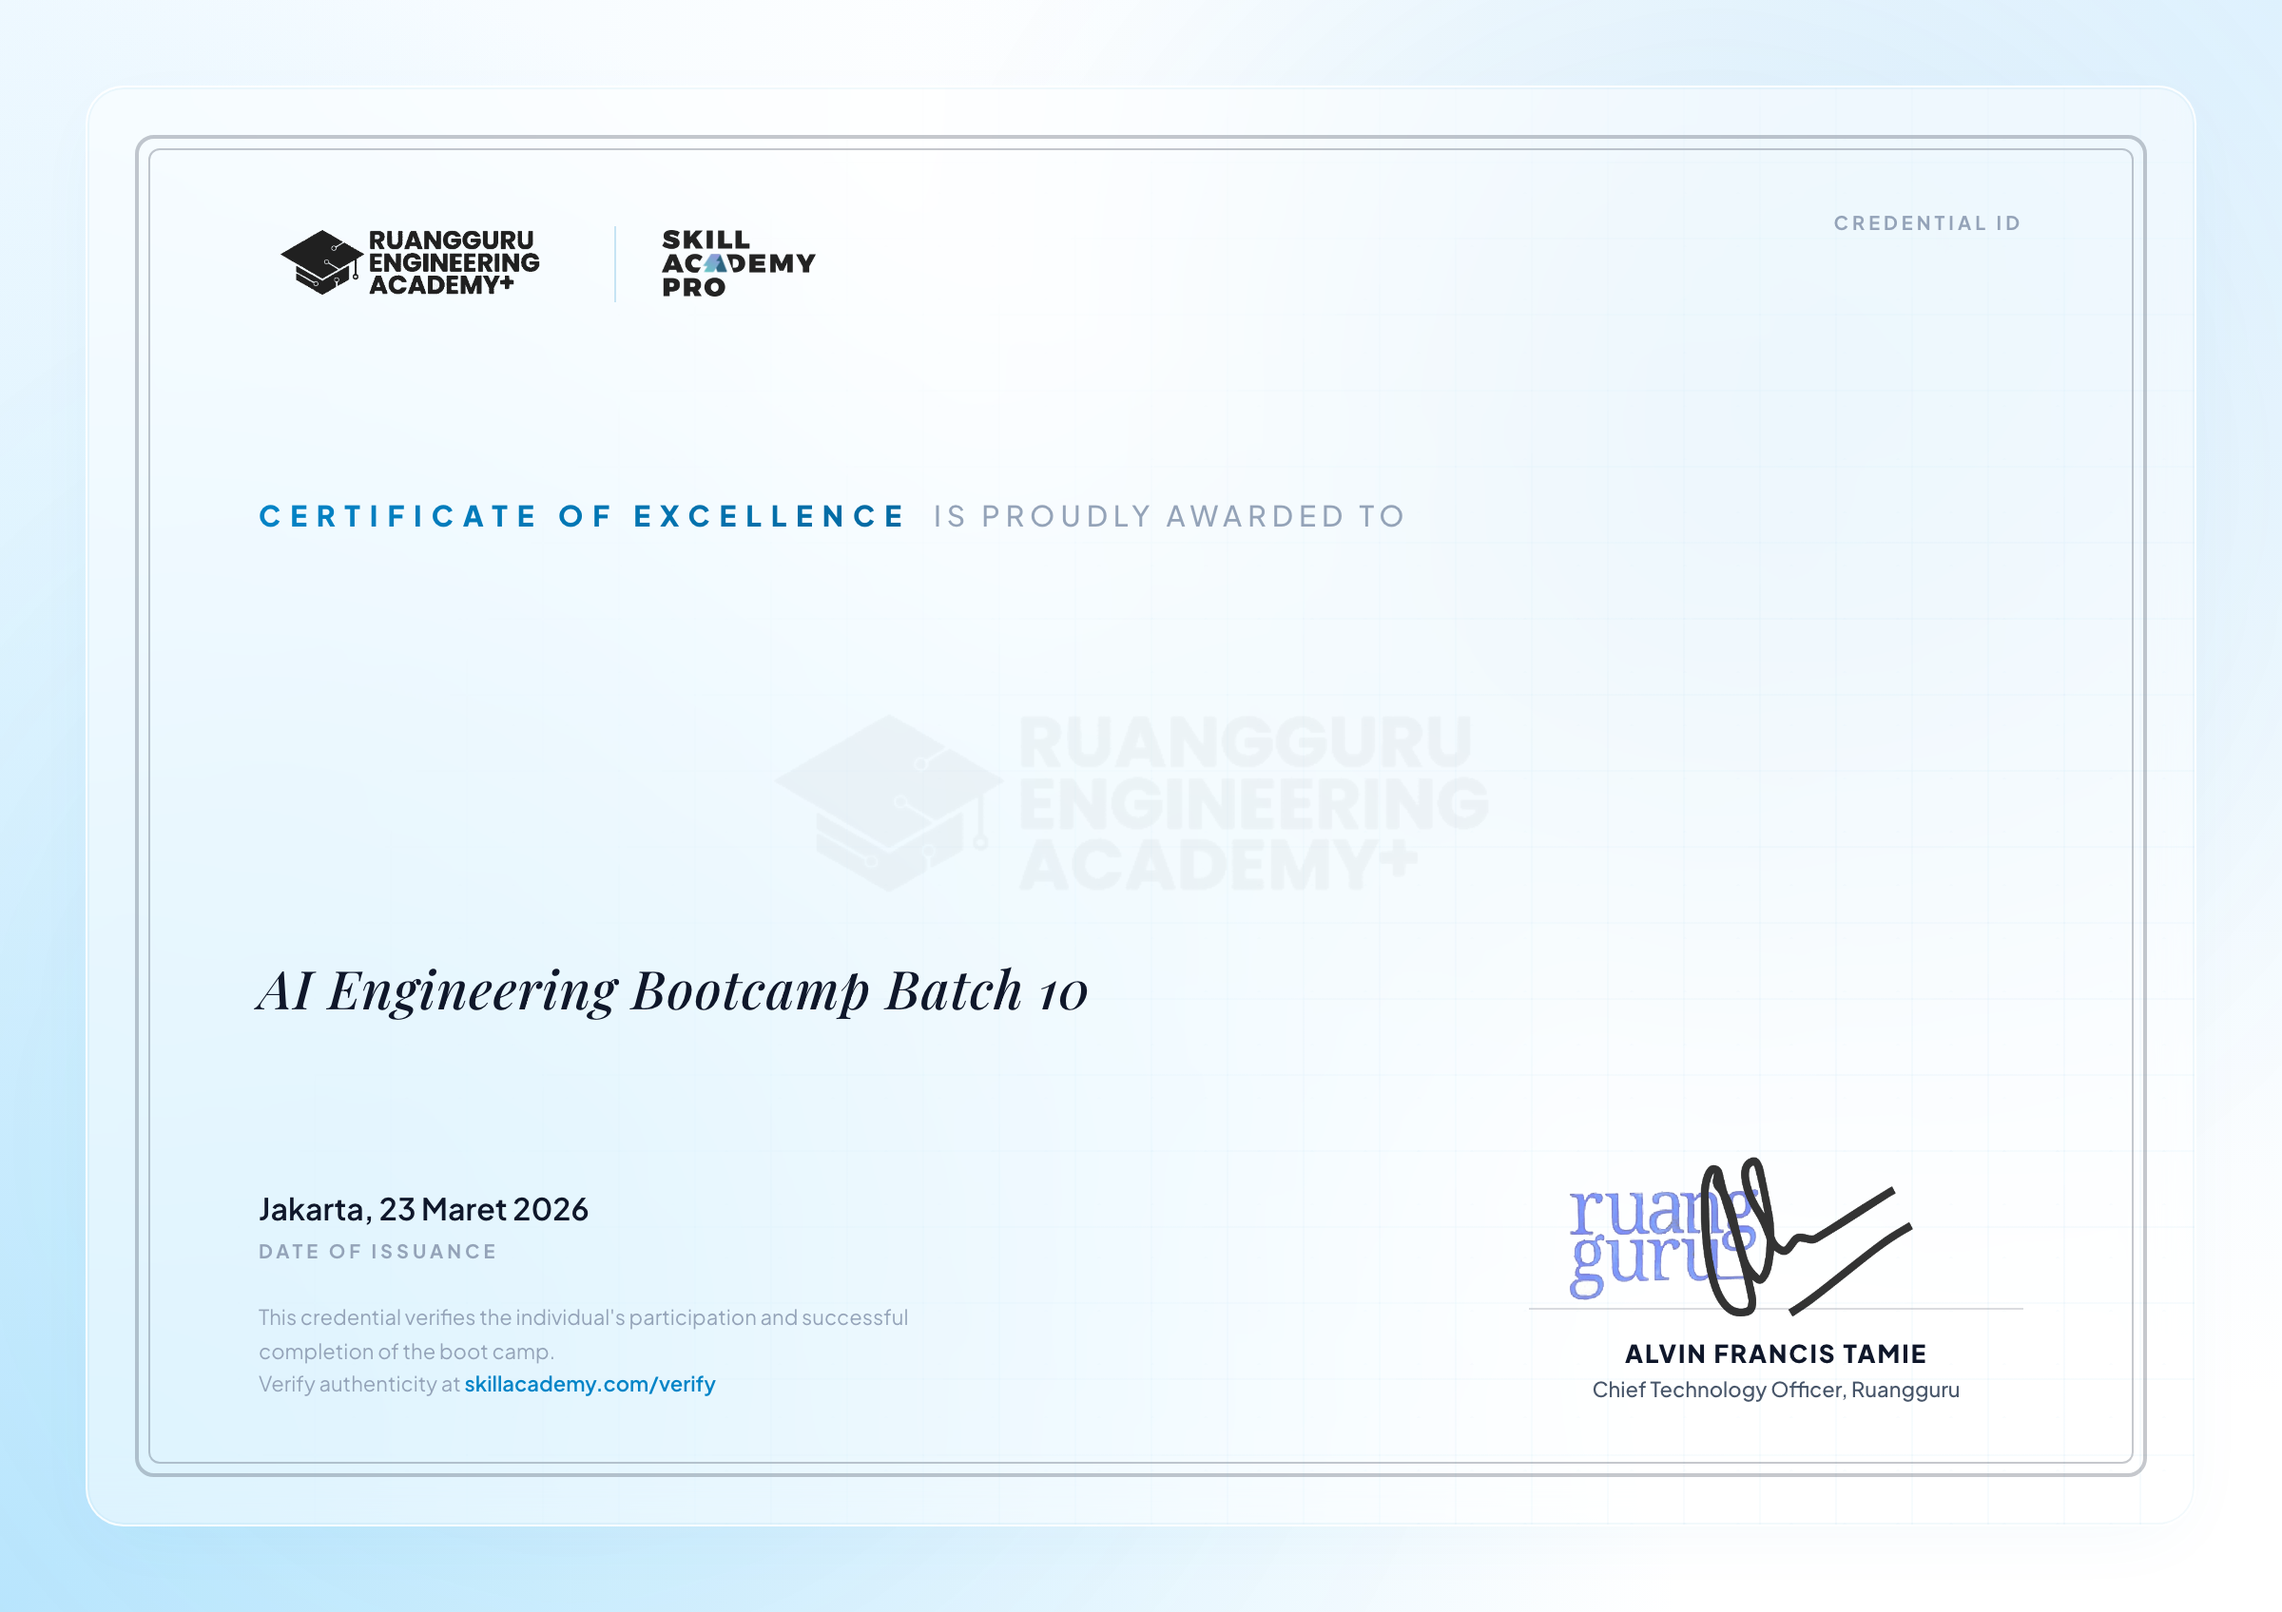
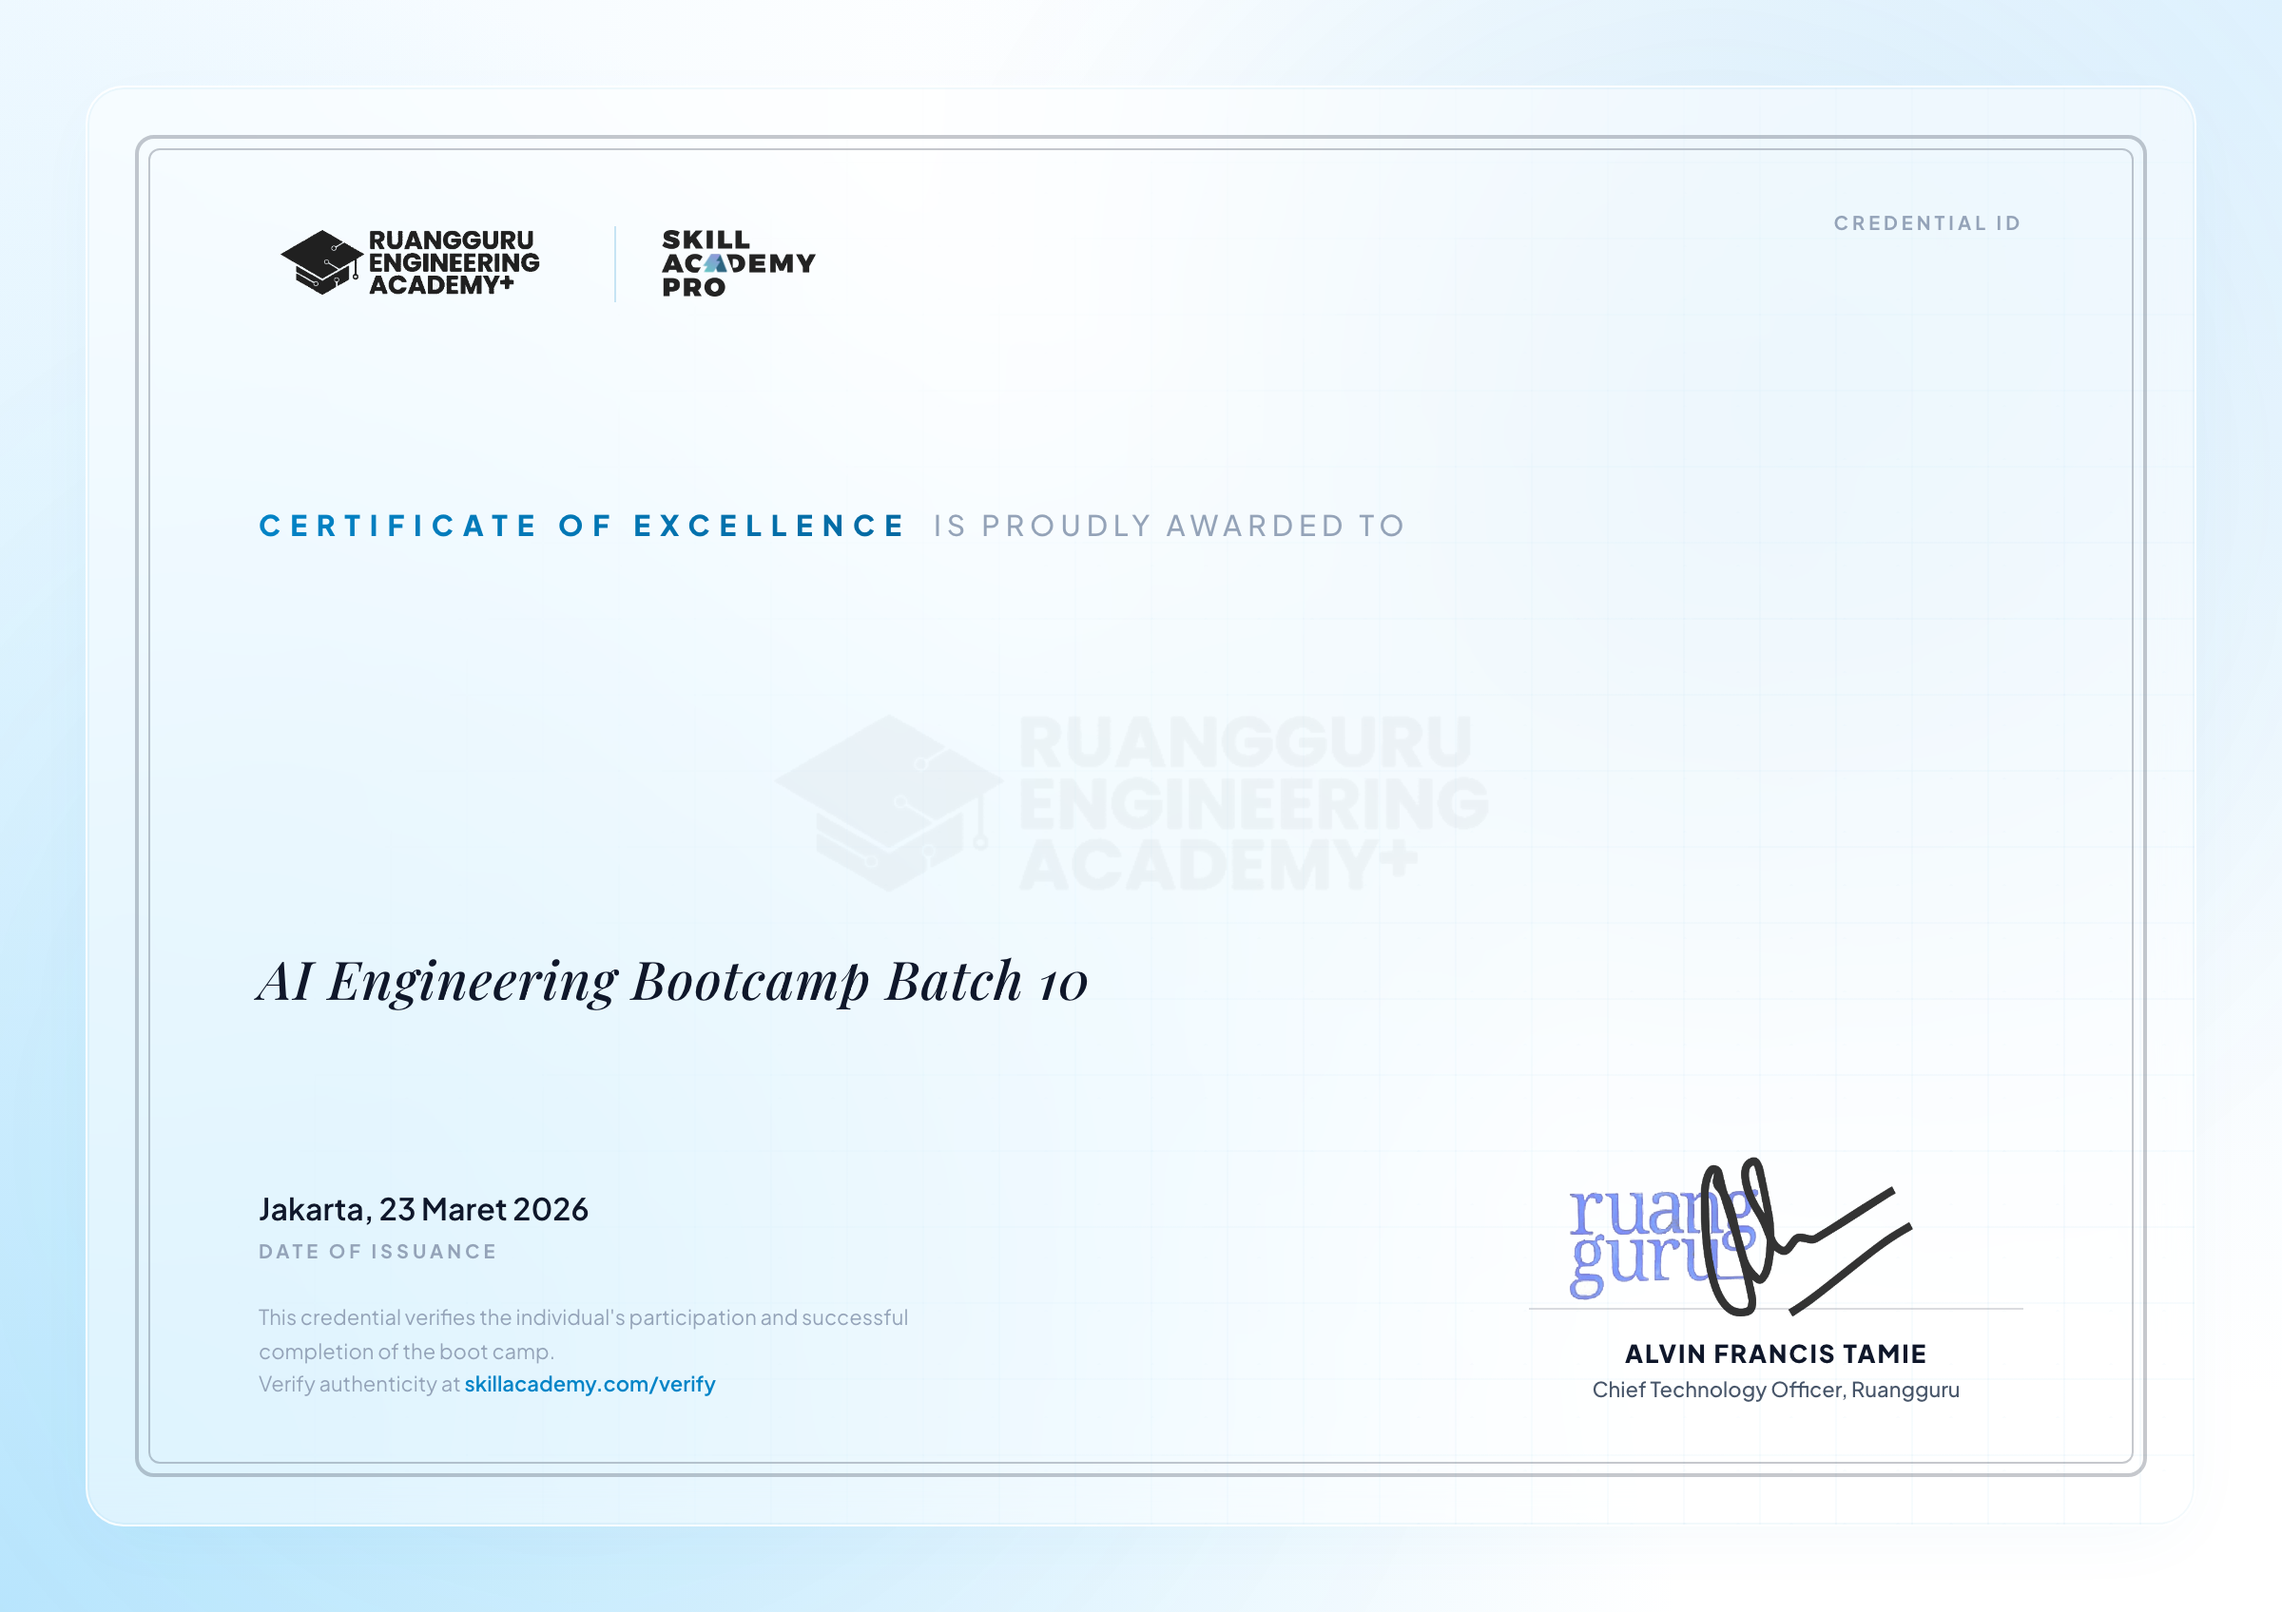
feat: auto-scale name font for long names; move Batch block up

Changed region(s): [[0.0938, 0.3125, 0.625, 0.3438], [0.125, 0.5938, 0.4688, 0.625]]

diff --git a/ai-engineering-certificate/index.html b/ai-engineering-certificate/index.html
@@ -318,7 +318,7 @@
         }
 
         .program-block {
-            margin-top: 15px;
+            margin-top: 5px;
         }
 
         .program-name {

diff --git a/api.py b/api.py
@@ -178,9 +178,15 @@ def draw_cert_image(
     color_desc = "#334155" # Slate-700
     color_cert = "#0284c7" # Light Blue
     
-    # 1. Gambar Nama - (Dikembalikan ke Y=600 biar nempel dan nyambung dengan title Awarded To)
+    # 1. Gambar Nama - auto-scale agar tidak melebihi lebar canvas
+    MAX_NAME_WIDTH = 1800  # px, batas lebar nama di canvas 2480px
+    name_font_size = 110
+    dynamic_font = ImageFont.truetype(FONT_PATH_BOLD, name_font_size)
+    while draw.textlength(name, font=dynamic_font) > MAX_NAME_WIDTH and name_font_size > 60:
+        name_font_size -= 4
+        dynamic_font = ImageFont.truetype(FONT_PATH_BOLD, name_font_size)
     name_pos = (260, 600)
-    draw.text(name_pos, name, font=font_name, fill=color_name)
+    draw.text(name_pos, name, font=dynamic_font, fill=color_name)
 
     # 2. Gambar Deskripsi - (Rich Text dg Bold)
     desc_pos = (265, 780)
